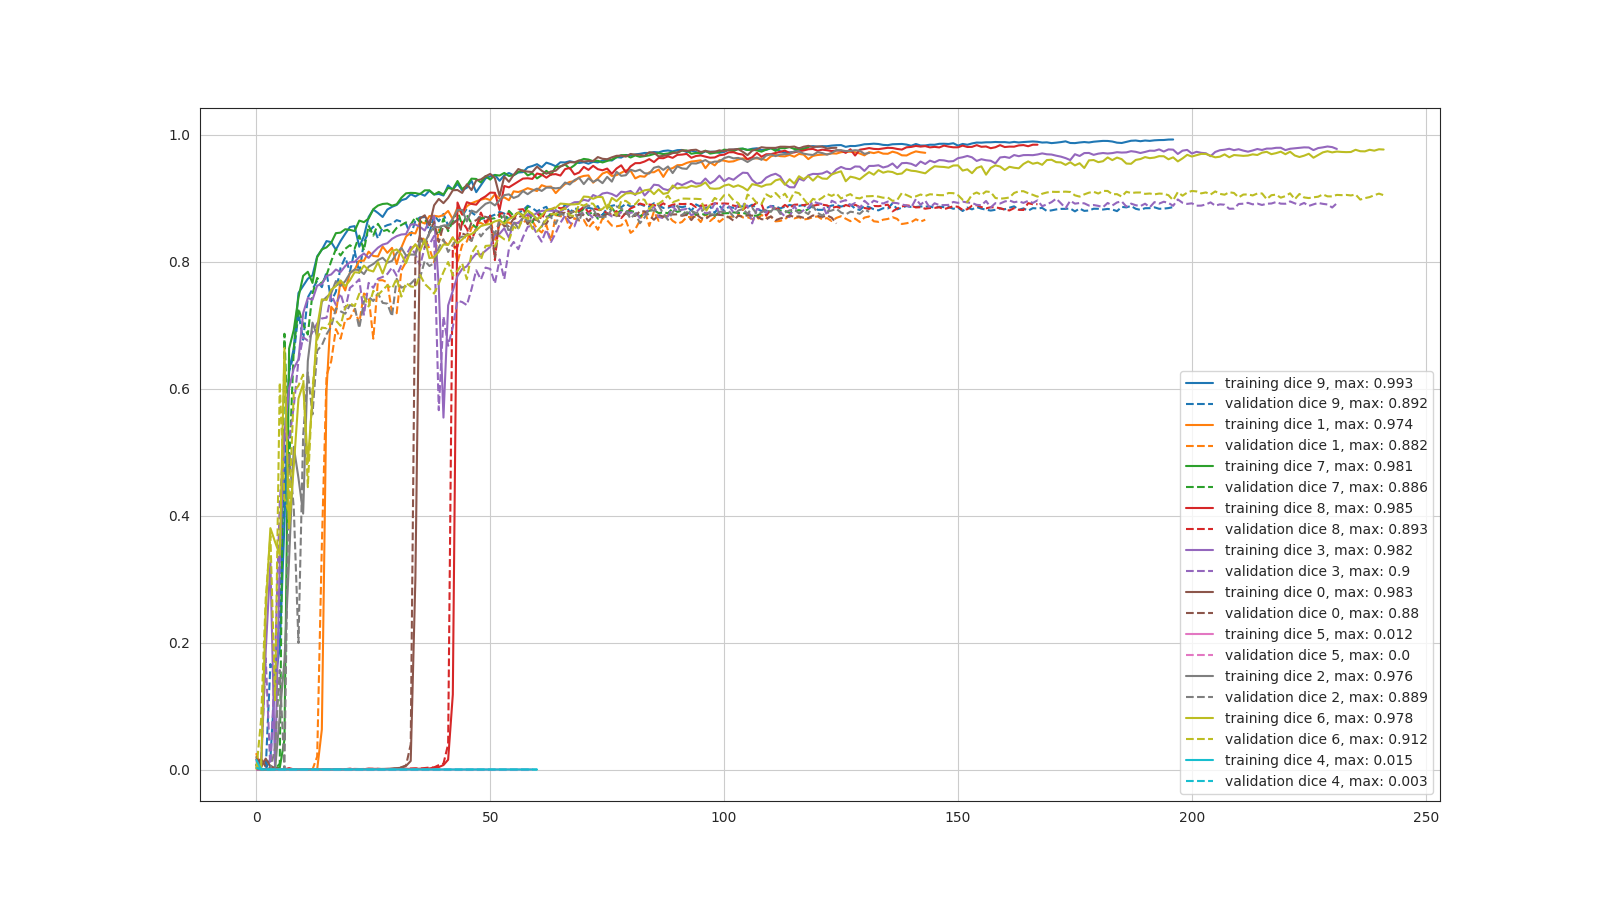
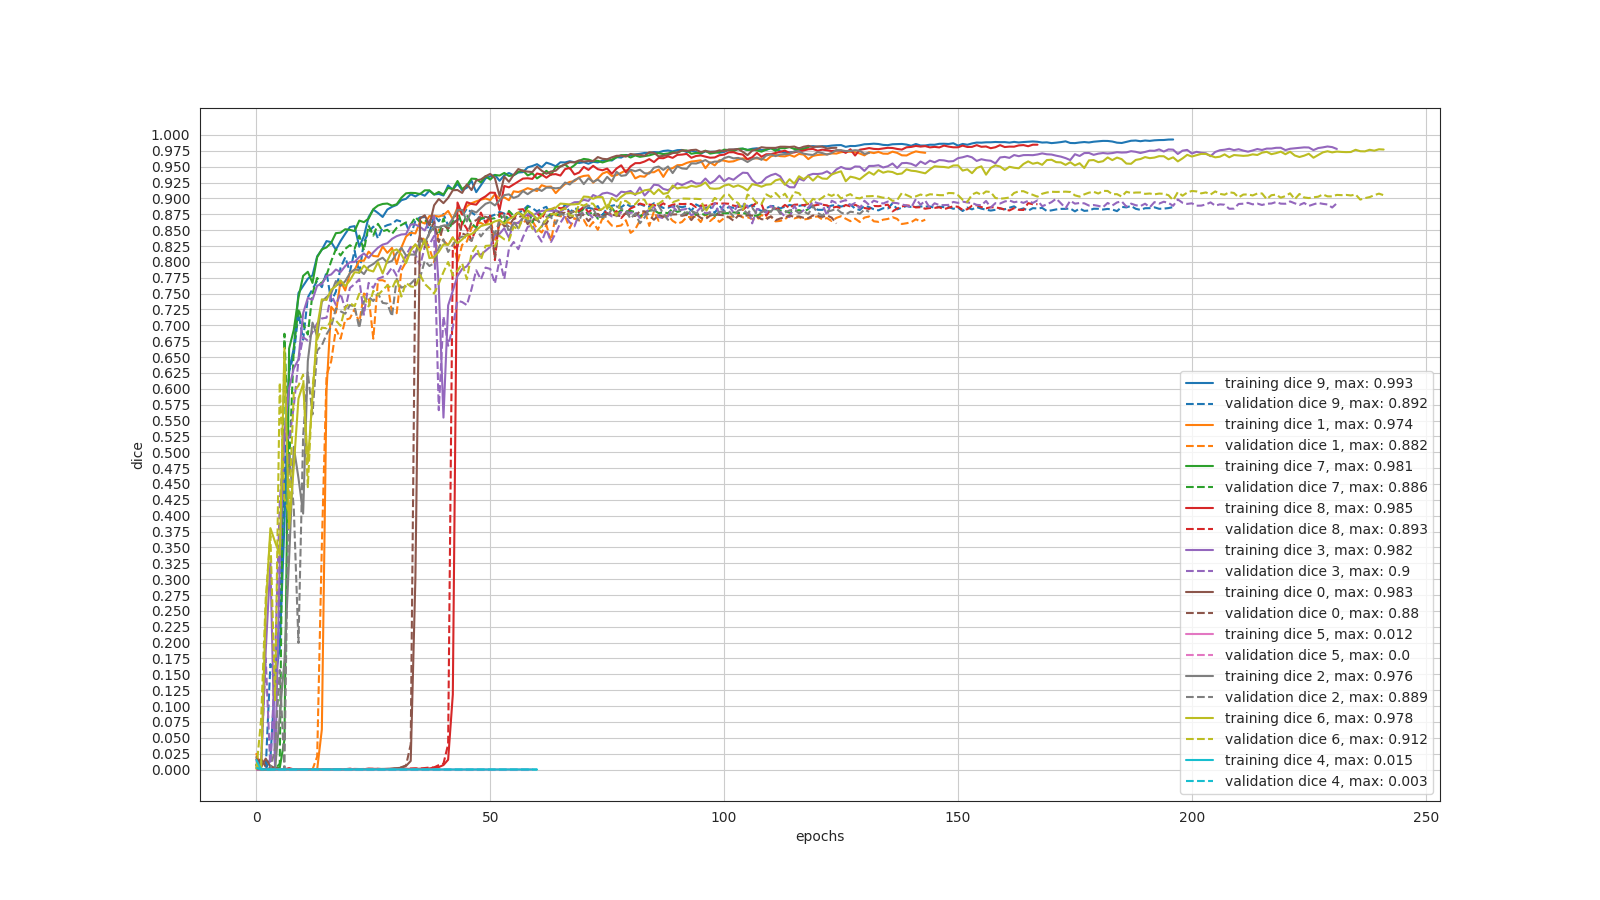
output dice over time

Changed region(s): [[0.0938, 0.1244, 0.125, 0.8711], [0.5, 0.9022, 0.5312, 0.9333]]

diff --git a/make_plots.py b/make_plots.py
@@ -58,48 +58,70 @@ def load_train_dice():
 
 def plot_dice(log_dir):
     # First plot dice over epochs for both training and validation.
-    plt.figure(figsize=(16, 9))
-    clrs = sns.color_palette("husl", 5)
-    with sns.axes_style('white'):
-        plt.grid()
-        for run_dir in os.listdir(log_dir):
-            if run_dir != 'plots':
-                train_csv = os.path.join(log_dir, run_dir, 'train_metrics.csv')
-                seconds, dices = load_csv(train_csv,
-                                          ['seconds', 'dice'],
-                                          [float, float])
-                dices = np.array(dices)
-                dices[np.isnan(dices)] = 0
-                epochs = range(len(dices))
-                #plt.yticks(np.arange(0, 36, 2))
-                p = plt.plot(epochs, dices,
-                             label=f'training dice {run_dir}, max: {round(max(dices), 3)}')
+    for x_axis in ['time', 'epochs']:
+        plt.figure(figsize=(16, 9))
+        clrs = sns.color_palette("husl", 5)
+        with sns.axes_style('white'):
+            plt.grid()
+            plt.yticks(np.arange(0, 1.025, 0.025))
+            for run_dir in os.listdir(log_dir):
+                if run_dir != 'plots':
+                    train_csv = os.path.join(log_dir, run_dir, 'train_metrics.csv')
+                    seconds, dices = load_csv(train_csv,
+                                              ['seconds', 'dice'],
+                                              [float, float])
+                    minutes = [s/60 for s in seconds]
+                    dices = np.array(dices)
+                    dices[np.isnan(dices)] = 0
+                    epochs = range(len(dices))
+                    #plt.yticks(np.arange(0, 36, 2))
+                    p = None
+                    plt.ylabel('dice')
+                    if x_axis == 'time':
+                        plt.xlabel('minutes')
+                        p = plt.plot(minutes, dices,
+                                     label=f'training dice {run_dir}, max: {round(max(dices), 3)}')
+                    else:
+                        plt.xlabel('epochs')
+                        p = plt.plot(epochs, dices,
+                                     label=f'training dice {run_dir}, max: {round(max(dices), 3)}')
 
-                prev_color = p[0].get_color()
+                    prev_color = p[0].get_color()
 
-                val_csv = os.path.join(log_dir, run_dir, 'val_metrics.csv')
-                seconds, dices = load_csv(val_csv,
-                                          ['seconds', 'dice'],
-                                          [float, float])
-                dices = np.array(dices)
-                dices[np.isnan(dices)] = 0
-                epochs = range(len(dices))
-                #plt.yticks(np.arange(0, 36, 2))
-                plt.plot(epochs, dices, color=prev_color,
-                         label=f'validation dice {run_dir}, max: {round(max(dices), 3)}',
-                         linestyle='--')
+                    val_csv = os.path.join(log_dir, run_dir, 'val_metrics.csv')
+                    seconds, dices = load_csv(val_csv,
+                                              ['seconds', 'dice'],
+                                              [float, float])
+                    dices = np.array(dices)
+                    dices[np.isnan(dices)] = 0
+                    epochs = range(len(dices))
+                    #plt.yticks(np.arange(0, 36, 2))
+                    p = None
+                    if x_axis == 'time':
+                        plt.plot(minutes, dices, color=prev_color,
+                                 label=f'validation dice {run_dir}, max: {round(max(dices), 3)}',
+                                 linestyle='--')
+                    else:
+                        plt.plot(epochs, dices, color=prev_color,
+                                 label=f'validation dice {run_dir}, max: {round(max(dices), 3)}',
+                                 linestyle='--')
 
-        # plt.fill_between(idx, means-stds, means+stds,
-        #                  alpha=0.3, facecolor=clrs[0])
-        plt.legend()
 
-    if not os.path.isdir(os.path.join(log_dir, 'plots')):
-        os.makedirs(os.path.join(log_dir, 'plots'))
 
-    # Then plot dice over time (minutes) for both training and validation.
-    fig_path = os.path.join(log_dir, 'plots', 'train_val_dice_epochs.png')
-    print('saving figure to ', fig_path)
-    plt.savefig(fig_path)
+            # plt.fill_between(idx, means-stds, means+stds,
+            #                  alpha=0.3, facecolor=clrs[0])
+            plt.legend()
+
+        if not os.path.isdir(os.path.join(log_dir, 'plots')):
+            os.makedirs(os.path.join(log_dir, 'plots'))
+
+        fig_path = os.path.join(log_dir, 'plots', 'train_val_dice_' + x_axis + '.png')
+        print('saving figure to ', fig_path)
+        plt.savefig(fig_path)
+
+        # Then plot dice over time (minutes) for both training and validation.
+
+
 
 
 def show_central_heart_slice(input_dir, im_dir_name = '1'):
